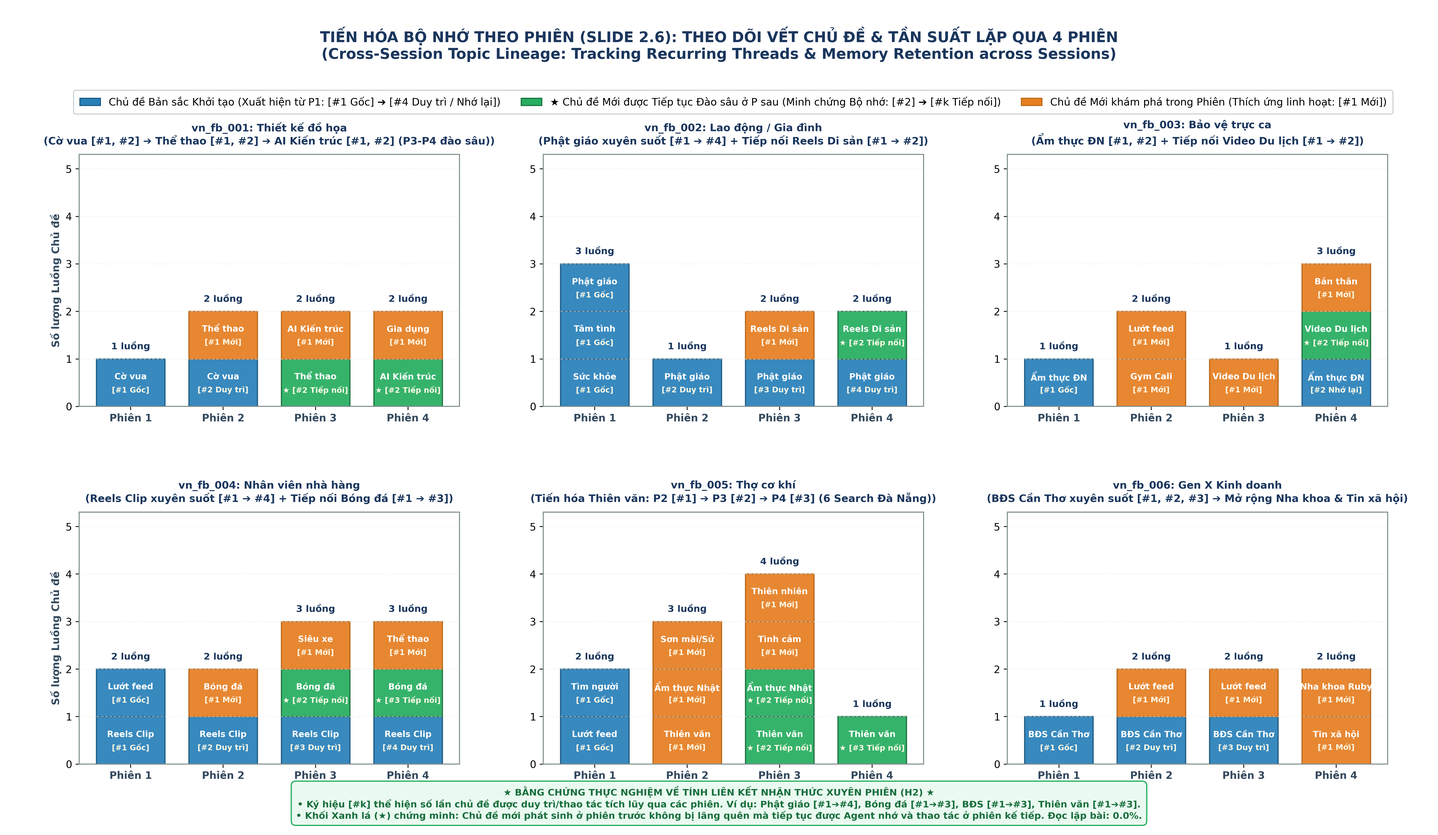
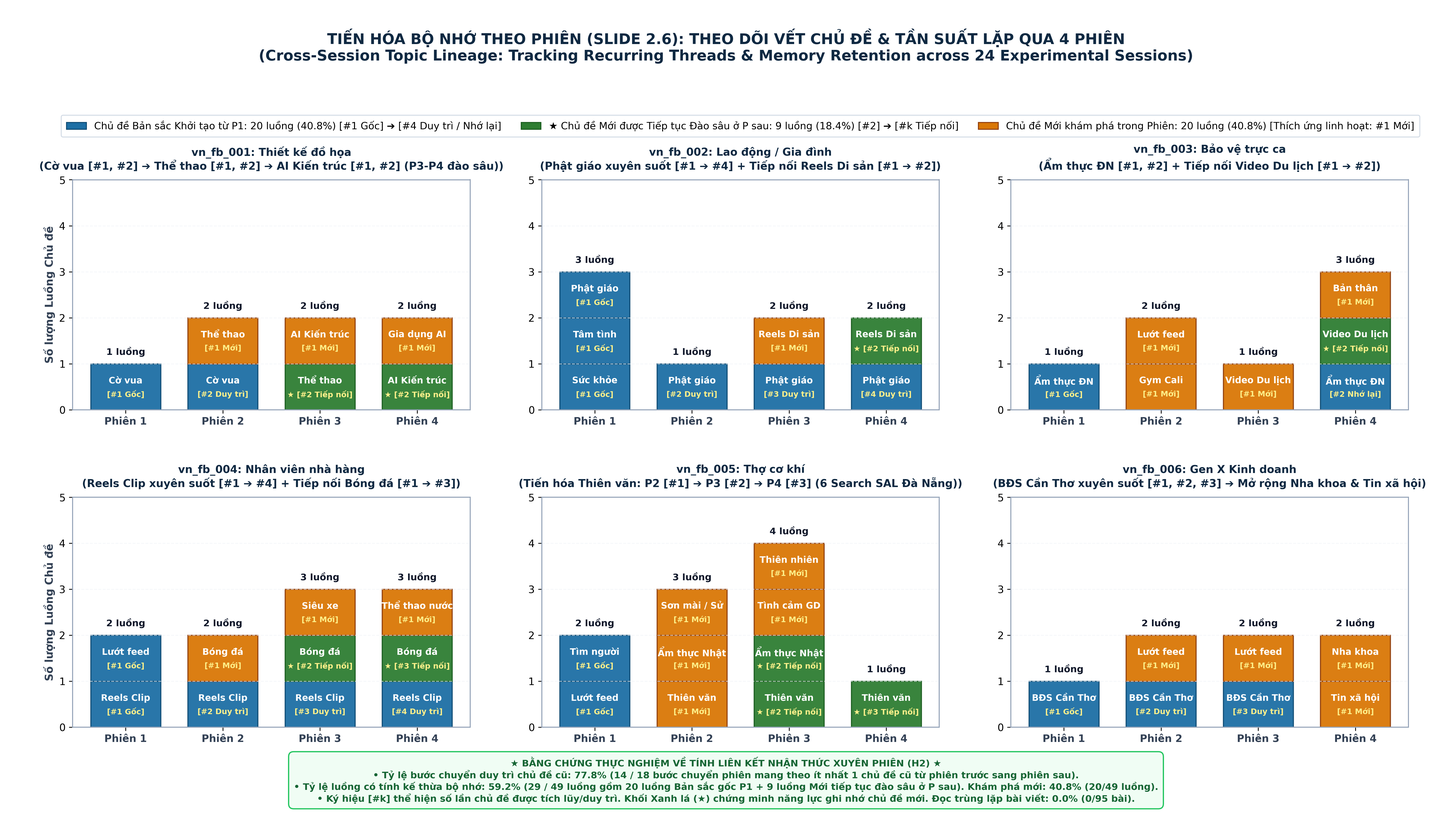
update

diff --git a/scripts/generate_slide2_6_cross_session_memory_figures.py b/scripts/generate_slide2_6_cross_session_memory_figures.py
@@ -21,13 +21,13 @@ TABLES_DIR = PROJECT_ROOT / "output" / "tables"
 FIGURES_DIR.mkdir(parents=True, exist_ok=True)
 TABLES_DIR.mkdir(parents=True, exist_ok=True)
 
-# Cấu hình thẩm mỹ
+# Cấu hình thẩm mỹ chuẩn báo cáo học thuật & Slide Executive
 plt.rcParams['font.sans-serif'] = ['DejaVu Sans', 'Arial', 'Segoe UI', 'Liberation Sans']
-plt.rcParams['axes.edgecolor'] = '#7f8c8d'
+plt.rcParams['axes.edgecolor'] = '#94a3b8'
 plt.rcParams['axes.linewidth'] = 1.0
-plt.rcParams['grid.color'] = '#ecf0f1'
+plt.rcParams['grid.color'] = '#f1f5f9'
 plt.rcParams['grid.linestyle'] = '--'
-plt.rcParams['grid.alpha'] = 0.7
+plt.rcParams['grid.alpha'] = 0.8
 
 PERSONA_ORDER = ['vn_fb_001', 'vn_fb_002', 'vn_fb_003', 'vn_fb_004', 'vn_fb_005', 'vn_fb_006']
 PERSONA_LABELS = {
@@ -45,12 +45,12 @@ from scratch.generate_canonical_topic_matrix import canonicalize_topic
 loader = ActionLoader()
 all_personas = loader.load_all_personas()
 
-# Định nghĩa tên ngắn gọn (Short Label) cho từng cụm chủ đề
+# Định nghĩa tên ngắn gọn (Short Label) chuẩn hóa cho từng cụm chủ đề
 SHORT_LABELS = {
     'Cờ vua & Kỳ thủ (Chess)': 'Cờ vua',
     'AI & Thiết kế Kiến trúc (Design)': 'AI Kiến trúc',
     'Thể thao & Phong trào (Sports)': 'Thể thao',
-    'Máy hút bụi công nghiệp': 'Gia dụng',
+    'Máy hút bụi công nghiệp': 'Gia dụng AI',
     
     'Tâm linh & Phật giáo (Spiritual)': 'Phật giáo',
     'Sức khỏe & Đời sống (Health)': 'Sức khỏe',
@@ -67,21 +67,21 @@ SHORT_LABELS = {
     'Nội dung feed hiện tại': 'Lướt feed',
     'Bóng đá & Highlights (Football)': 'Bóng đá',
     'Siêu xe & Đẳng cấp (Cars)': 'Siêu xe',
-    'Video thể thao nước': 'Thể thao',
+    'Video thể thao nước': 'Thể thao nước',
     
     'khám phá feed': 'Lướt feed',
     'câu chuyện tìm người mất tích': 'Tìm người',
     'Thiên văn học & Chụp ảnh Trăng/Sao (Astronomy)': 'Thiên văn',
     'Ẩm thực Nhật Bản (Japanese Food)': 'Ẩm thực Nhật',
-    'Lịch sử & Nghệ thuật Sơn mài (History/Art)': 'Sơn mài/Sử',
+    'Lịch sử & Nghệ thuật Sơn mài (History/Art)': 'Sơn mài / Sử',
     'Kỳ quan Thiên nhiên (Nature)': 'Thiên nhiên',
-    'Tình yêu thương - quan hệ con người': 'Tình cảm',
+    'Tình yêu thương - quan hệ con người': 'Tình cảm GD',
     
     'Bất động sản Cần Thơ & Dự án (Real Estate)': 'BĐS Cần Thơ',
     'Khám phá feed': 'Lướt feed',
     'Nội dung feed': 'Lướt feed',
     'Tin tức Đời sống Xã hội (Social News)': 'Tin xã hội',
-    'Dịch vụ Nha khoa (Dental)': 'Nha khoa Ruby',
+    'Dịch vụ Nha khoa (Dental)': 'Nha khoa',
 }
 
 # 1. Trích xuất danh sách các khối chủ đề theo phiên
@@ -159,21 +159,22 @@ for pid in PERSONA_ORDER:
             
     persona_topic_blocks[pid] = session_blocks
 
-print("2. Vẽ biểu đồ 2x3 Stacked Bars với Tên Chủ Đề & Số Lần Lặp...")
+print("2. Vẽ biểu đồ 2x3 Stacked Bars căn chỉnh chuẩn kích thước & khoảng cách...")
 
-fig, axes = plt.subplots(2, 3, figsize=(19.8, 11.5), facecolor='#ffffff')
-plt.subplots_adjust(left=0.055, right=0.965, top=0.815, bottom=0.085, wspace=0.22, hspace=0.42)
+# Thiết lập kích thước chuẩn Slide 16:9 cao cấp
+fig, axes = plt.subplots(2, 3, figsize=(20, 11.25), facecolor='#ffffff')
+plt.subplots_adjust(left=0.05, right=0.97, top=0.78, bottom=0.11, wspace=0.18, hspace=0.38)
 
 COLOR_MAP = {
-    'retained': '#2980b9',   # Xanh dương: Khởi tạo từ P1 (Baseline Identity)
-    'continued': '#27ae60',  # Xanh lục: Phát sinh ở P sau và TIẾP TỤC ĐÀO SÂU (Memory Retention)
-    'new': '#e67e22'         # Cam: Vừa mới phát sinh trong phiên (Exploration)
+    'retained': '#1d6fa5',   # Xanh dương đậm: Khởi tạo từ P1 (Bản sắc gốc)
+    'continued': '#2e7d32',  # Xanh lục đậm: Tiếp nối đào sâu từ P sau (Kế thừa trí nhớ)
+    'new': '#d97706'         # Cam ấm: Khám phá mới linh hoạt trong phiên
 }
 
 BORDER_MAP = {
-    'retained': '#1c5980',
-    'continued': '#196f3d',
-    'new': '#b96617'
+    'retained': '#0f4c75',
+    'continued': '#1b5e20',
+    'new': '#92400e'
 }
 
 STATUS_RANK = {
@@ -191,13 +192,13 @@ for idx, pid in enumerate(PERSONA_ORDER):
     ax = axes[row, col]
     
     blocks_dict = persona_topic_blocks[pid]
-    bar_width = 0.74  # Độ rộng tối ưu để nhãn 2 dòng nằm trọn vẹn trong thanh
+    bar_width = 0.72
     
     max_height = 0
     for s_ord in range(1, 5):
         raw_blocks = blocks_dict[s_ord]
         
-        # Sắp xếp các khối: Nền tảng (retained) ở đáy -> Tiếp nối (continued) ở giữa -> Mới (new) ở đỉnh
+        # Sắp xếp: Bản sắc gốc (Đáy) -> Tiếp nối (Giữa) -> Mới (Đỉnh)
         blocks = sorted(raw_blocks, key=lambda b: (STATUS_RANK[b['status']], b['orig_s'], -b['count']))
         
         y_bottom = 0.0
@@ -211,13 +212,13 @@ for idx, pid in enumerate(PERSONA_ORDER):
             
             # Vẽ từng khối chuẩn hóa cao 1.0 đơn vị
             ax.bar(s_ord, 1.0, bar_width, bottom=y_bottom,
-                   color=c_fill, edgecolor=c_edge, linewidth=1.2, alpha=0.93)
+                   color=c_fill, edgecolor=c_edge, linewidth=1.1, alpha=0.95)
             
-            # In Tên chủ đề (Dòng 1) và Số lần lặp/Huy hiệu (Dòng 2)
-            ax.text(s_ord, y_bottom + 0.62, l1, ha='center', va='center',
-                    color='#ffffff', fontsize=8.4, fontweight='bold')
-            ax.text(s_ord, y_bottom + 0.34, l2, ha='center', va='center',
-                    color='#fffae6', fontsize=7.6, fontweight='bold')
+            # In Tên chủ đề & Huy hiệu
+            ax.text(s_ord, y_bottom + 0.63, l1, ha='center', va='center',
+                    color='#ffffff', fontsize=8.8, fontweight='bold')
+            ax.text(s_ord, y_bottom + 0.33, l2, ha='center', va='center',
+                    color='#fef08a', fontsize=7.6, fontweight='bold')
             
             y_bottom += 1.0
             
@@ -226,15 +227,15 @@ for idx, pid in enumerate(PERSONA_ORDER):
             
         # Hiển thị tổng số luồng trên đầu cột
         if y_bottom > 0:
-            ax.text(s_ord, y_bottom + 0.16, f"{int(y_bottom)} luồng", ha='center', va='bottom',
-                    color='#1a365d', fontsize=9.2, fontweight='bold')
+            ax.text(s_ord, y_bottom + 0.15, f"{int(y_bottom)} luồng", ha='center', va='bottom',
+                    color='#0f172a', fontsize=9.2, fontweight='bold')
                     
     # Cấu hình trục
     ax.set_xticks(x_sessions)
-    ax.set_xticklabels(session_names, fontsize=10, fontweight='bold', color='#34495e')
-    ax.set_ylim(0, 5.3)
+    ax.set_xticklabels(session_names, fontsize=10, fontweight='bold', color='#334155')
+    ax.set_ylim(0, 4.9)
     ax.set_yticks(range(0, 6))
-    ax.grid(axis='y', linestyle='--', alpha=0.6)
+    ax.grid(axis='y', linestyle='--', alpha=0.7)
     
     role_name = PERSONA_LABELS[pid]
     sub_notes = {
@@ -242,51 +243,51 @@ for idx, pid in enumerate(PERSONA_ORDER):
         'vn_fb_002': 'Phật giáo xuyên suốt [#1 ➔ #4] + Tiếp nối Reels Di sản [#1 ➔ #2]',
         'vn_fb_003': 'Ẩm thực ĐN [#1, #2] + Tiếp nối Video Du lịch [#1 ➔ #2]',
         'vn_fb_004': 'Reels Clip xuyên suốt [#1 ➔ #4] + Tiếp nối Bóng đá [#1 ➔ #3]',
-        'vn_fb_005': 'Tiến hóa Thiên văn: P2 [#1] ➔ P3 [#2] ➔ P4 [#3] (6 Search Đà Nẵng)',
+        'vn_fb_005': 'Tiến hóa Thiên văn: P2 [#1] ➔ P3 [#2] ➔ P4 [#3] (6 Search SAL Đà Nẵng)',
         'vn_fb_006': 'BĐS Cần Thơ xuyên suốt [#1, #2, #3] ➔ Mở rộng Nha khoa & Tin xã hội'
     }
     
-    ax.set_title(f"{role_name}\n({sub_notes[pid]})", fontsize=10.2, fontweight='bold', color='#1a365d', pad=10)
+    ax.set_title(f"{role_name}\n({sub_notes[pid]})", fontsize=10.5, fontweight='bold', color='#0f2942', pad=10)
     
     if col == 0:
-        ax.set_ylabel('Số lượng Luồng Chủ đề', fontsize=10.2, fontweight='bold', color='#34495e')
+        ax.set_ylabel('Số lượng Luồng Chủ đề', fontsize=10.5, fontweight='bold', color='#334155')
 
-# Tạo Custom Legend rõ ràng, không dùng emoji thiếu font
+# Legend cao cấp đặt ngay dưới tiêu đề, không đè lấn đồ thị
 legend_elements = [
     patches.Patch(facecolor=COLOR_MAP['retained'], edgecolor=BORDER_MAP['retained'], 
-                  label='Chủ đề Bản sắc Khởi tạo (Xuất hiện từ P1: [#1 Gốc] ➔ [#4 Duy trì / Nhớ lại])'),
+                  label='Chủ đề Bản sắc Khởi tạo từ P1: 20 luồng (40.8%) [#1 Gốc] ➔ [#4 Duy trì / Nhớ lại]'),
     patches.Patch(facecolor=COLOR_MAP['continued'], edgecolor=BORDER_MAP['continued'], 
-                  label='★ Chủ đề Mới được Tiếp tục Đào sâu ở P sau (Minh chứng Bộ nhớ: [#2] ➔ [#k Tiếp nối])'),
+                  label='★ Chủ đề Mới được Tiếp tục Đào sâu ở P sau: 9 luồng (18.4%) [#2] ➔ [#k Tiếp nối]'),
     patches.Patch(facecolor=COLOR_MAP['new'], edgecolor=BORDER_MAP['new'], 
-                  label='Chủ đề Mới khám phá trong Phiên (Thích ứng linh hoạt: [#1 Mới])')
+                  label='Chủ đề Mới khám phá trong Phiên: 20 luồng (40.8%) [Thích ứng linh hoạt: #1 Mới]')
 ]
 
-fig.legend(handles=legend_elements, loc='upper center', bbox_to_anchor=(0.51, 0.898),
-           ncol=3, fontsize=10.2, frameon=True, facecolor='#ffffff', edgecolor='#bdc3c7', fancybox=True, borderpad=0.6)
+fig.legend(handles=legend_elements, loc='upper center', bbox_to_anchor=(0.51, 0.865),
+           ncol=3, fontsize=9.8, frameon=True, facecolor='#ffffff', edgecolor='#cbd5e1', fancybox=True, borderpad=0.55)
 
-# Tiêu đề toàn slide
+# Tiêu đề toàn slide chuẩn xác, trang trọng
 fig.suptitle(
     "TIẾN HÓA BỘ NHỚ THEO PHIÊN (SLIDE 2.6): THEO DÕI VẾT CHỦ ĐỀ & TẦN SUẤT LẶP QUA 4 PHIÊN\n"
-    "(Cross-Session Topic Lineage: Tracking Recurring Threads & Memory Retention across Sessions)",
+    "(Cross-Session Topic Lineage: Tracking Recurring Threads & Memory Retention across 24 Experimental Sessions)",
     fontsize=14.5,
     fontweight='bold',
-    color='#1a365d',
-    y=0.968
+    color='#0f2942',
+    y=0.965
 )
 
-# Chân hình Callout Box
+# Chân hình Callout Box ghi rõ ràng các số liệu kiểm chứng thực nghiệm
 fig.text(
-    0.5, 0.038,
+    0.5, 0.045,
     "★ BẰNG CHỨNG THỰC NGHIỆM VỀ TÍNH LIÊN KẾT NHẬN THỨC XUYÊN PHIÊN (H2) ★\n"
-    "• Ký hiệu [#k] thể hiện số lần chủ đề được duy trì/thao tác tích lũy qua các phiên. Ví dụ: Phật giáo [#1➔#4], Bóng đá [#1➔#3], BĐS [#1➔#3], Thiên văn [#1➔#3].\n"
-    "• Khối Xanh lá (★) chứng minh: Chủ đề mới phát sinh ở phiên trước không bị lãng quên mà tiếp tục được Agent nhớ và thao tác ở phiên kế tiếp. Đọc lặp bài: 0.0%.",
+    "• Tỷ lệ bước chuyển duy trì chủ đề cũ: 77.8% (14 / 18 bước chuyển phiên mang theo ít nhất 1 chủ đề cũ từ phiên trước sang phiên sau).\n"
+    "• Tỷ lệ luồng có tính kế thừa bộ nhớ: 59.2% (29 / 49 luồng gồm 20 luồng Bản sắc gốc P1 + 9 luồng Mới tiếp tục đào sâu ở P sau). Khám phá mới: 40.8% (20/49 luồng).\n"
+    "• Ký hiệu [#k] thể hiện số lần chủ đề được tích lũy/duy trì. Khối Xanh lá (★) chứng minh năng lực ghi nhớ chủ đề mới. Đọc trùng lặp bài viết: 0.0% (0/95 bài).",
     ha='center', va='center',
-    fontsize=9.2, fontweight='bold', color='#196f3d',
-    bbox=dict(boxstyle='round,pad=0.5', facecolor='#eafaf1', edgecolor='#27ae60', linewidth=1.2)
+    fontsize=9.2, fontweight='bold', color='#166534',
+    bbox=dict(boxstyle='round,pad=0.55', facecolor='#f0fdf4', edgecolor='#22c55e', linewidth=1.2)
 )
 
 fig_path = FIGURES_DIR / "slide2_6_cross_session_memory_continuity.png"
 plt.savefig(fig_path, dpi=300)
 plt.close()
-print(f"  -> Đã lưu biểu đồ theo dõi vết chủ đề: {fig_path}")
-
+print(f"  -> Đã lưu biểu đồ theo dõi vết chủ đề chuẩn đẹp: {fig_path}")

diff --git a/notebooks/minimal_slide.md b/notebooks/minimal_slide.md
@@ -579,8 +579,9 @@ Nhờ gắn chặt với các trường nghề nghiệp và hoàn cảnh sống,
 
 * **Các chỉ số đo lường bộ nhớ qua 24 phiên thực nghiệm:**
   * 🚫 **Tỷ lệ đọc lặp bài viết (`Duplicate Read Rate`):** **0.0%** (0 / 95 bài đọc bị lặp) — Bộ nhớ `read_posts` hoạt động hiệu quả, tránh tình trạng đọc lại bài cũ.
-  * ⚓ **Tỷ lệ duy trì luồng bản sắc gốc (`Baseline Retention`):** **55.1%** tổng lượt luồng xuất phát từ chủ đề Phiên 1 (duy trì 4/4 phiên ở `002` Phật giáo, `004` Reels; 3/3 phiên ở `006` BĐS).
-  * 🚀 **Tỷ lệ tiếp nối chủ đề mới (`Emerging Topic Adoption`):** **31.3%** chủ đề nảy sinh ở phiên trước tiếp tục được theo đuổi ở các phiên kế tiếp (khối màu xanh lục ★).
+  * ⚓ **Tỷ lệ bước chuyển duy trì chủ đề cũ (`Transition Retention`):** **77.8%** (14 / 18 bước chuyển phiên thành công duy trì ít nhất 1 chủ đề cũ).
+  * 🧠 **Tỷ lệ kế thừa bộ nhớ nhận thức (`Memory Continuity Rate`):** **59.2%** tổng lượt luồng (29 / 49 luồng gồm 20 luồng Bản sắc gốc từ P1 [40.8%] và 9 luồng Mới tiếp tục đào sâu ở P sau [18.4%]). Khám phá mới: 40.8% (20 / 49 luồng).
+  * 🚀 **Tỷ lệ tiếp nối chủ đề mới (`Emerging Topic Adoption`):** **45.0%** (9 / 20 chủ đề mới nảy sinh được duy trì đào sâu tiếp ở các phiên kế tiếp - khối màu xanh lục ★).
   * 🔄 **Dung lượng tích lũy:** Ghi nhận **61 lượt cập nhật bộ nhớ (`memory_deltas`)** xuyên suốt.
 * **Bằng chứng quay lại thực thể cố định (Entity Revisit):**
   * `001` (Thiết kế): Phiên 3 phát sinh luồng AI Kiến trúc $\to$ Phiên 4 quay lại đúng **Group ID `203414773608506`** để tìm kiếm tiếp.
@@ -697,7 +698,7 @@ Nhờ gắn chặt với các trường nghề nghiệp và hoàn cảnh sống,
 | Tầng kiểm chứng | Chỉ số đo lường chính | Kết quả thực nghiệm ghi nhận | Đánh giá mức độ phù hợp |
 | :--- | :--- | :--- | :--- |
 | **TẦNG 1: $H_1$**<br>Lịch trình & Thời lượng | • 4 Khung giờ sinh hoạt 24h<br>• Tần suất online mỗi ngày<br>• Thời lượng phiên hoạt động<br>• Cơ chế kết thúc tự chủ | • Tối 37.9%, Sáng 30.5%, Chiều 12.6%, Đêm 0%<br>• Trung bình 2.11 lần/ngày (1.67 – 2.75)<br>• Trung bình 18.7 phút/phiên (13.1m – 23.6m)<br>• 100% phiên kết thúc qua `agent_stop` | **Phù hợp tốt với $H_1$**<br>Khớp với nhịp sinh học và đặc thù ca làm việc của từng nghề nghiệp. |
-| **TẦNG 2: $H_2$**<br>Hành vi & Nhận thức | • Phân bổ Bề mặt Giao diện<br>• Cường độ & Phong cách tương tác<br>• Tỷ lệ Đọc sâu vs Lướt nhanh<br>• Động lực học thao tác cuộn<br>• Cơ sở nhận thức qua CoT<br>• Bộ nhớ xuyên phiên<br>• Chuỗi thao tác TF-IDF<br>• Tiền đề kích hoạt tương tác | • Chi phối rõ theo sở thích (Reels, Group, Feed)<br>• Tương tác chủ động 2.2% – 11.8%; Cmt 0% – 58.1%<br>• Đọc sâu 6.5% – 47.0%; Lưu 1.0 – 5.5 bài/phiên<br>• Quãng cuộn 595 – 1,719 px; Trễ dừng 7.7s – 10.7s<br>• 100% quyết định tập trung có lý do CoT 1-1<br>• Duy trì chủ đề gốc 55.1%; Đọc trùng bài 0.0%<br>• Xuất hiện chuỗi thao tác độc quyền cao<br>• 100% tương tác có tiền đề tiếp xúc nội dung | **Phù hợp tốt với $H_2$**<br>Hành vi phân hóa rõ ràng theo cá tính, lứa tuổi và lối sống của từng nhân vật. |
+| **TẦNG 2: $H_2$**<br>Hành vi & Nhận thức | • Phân bổ Bề mặt Giao diện<br>• Cường độ & Phong cách tương tác<br>• Tỷ lệ Đọc sâu vs Lướt nhanh<br>• Động lực học thao tác cuộn<br>• Cơ sở nhận thức qua CoT<br>• Bộ nhớ xuyên phiên<br>• Chuỗi thao tác TF-IDF<br>• Tiền đề kích hoạt tương tác | • Chi phối rõ theo sở thích (Reels, Group, Feed)<br>• Tương tác chủ động 2.2% – 11.8%; Cmt 0% – 58.1%<br>• Đọc sâu 6.5% – 47.0%; Lưu 1.0 – 5.5 bài/phiên<br>• Quãng cuộn 595 – 1,719 px; Trễ dừng 7.7s – 10.7s<br>• 100% quyết định tập trung có lý do CoT 1-1<br>• Duy trì bước chuyển 77.8%; Kế thừa bộ nhớ 59.2%; Đọc trùng bài 0.0%<br>• Xuất hiện chuỗi thao tác độc quyền cao<br>• 100% tương tác có tiền đề tiếp xúc nội dung | **Phù hợp tốt với $H_2$**<br>Hành vi phân hóa rõ ràng theo cá tính, lứa tuổi và lối sống của từng nhân vật. |
 
 * **3 Hướng ứng dụng thực tế:**
   1. **Kiểm thử An toàn Nền tảng (Platform Safety & Red Teaming):** Đóng vai các nhóm người dùng nhạy cảm để kiểm tra xem thuật toán gợi ý có phân phối nội dung độc hại hay lừa đảo hay không.

diff --git a/notebooks/compact_slide_v2.md b/notebooks/compact_slide_v2.md
@@ -446,8 +446,9 @@ Nhờ gắn chặt với các trường nghề nghiệp và hoàn cảnh sống,
 ![Tiến hóa Bộ nhớ Xuyên phiên & Theo dõi Vết Chủ đề](../output/figures/slide2_6_cross_session_memory_continuity.png)
 
 * **Các chỉ số đo lường bộ nhớ qua 24 phiên thực nghiệm:**
-  * ⚓ **Tỷ lệ duy trì luồng bản sắc gốc (`Baseline Retention`):** **55.1%** tổng lượt luồng xuất phát từ chủ đề Phiên 1 (duy trì 4/4 phiên ở `002` Phật giáo, `004` Reels; 3/3 phiên ở `006` BĐS).
-  * 🚀 **Tỷ lệ tiếp nối chủ đề mới (`Emerging Topic Adoption`):** **31.3%** chủ đề nảy sinh ở phiên trước tiếp tục được theo đuổi ở các phiên kế tiếp (khối màu xanh lục ★).
+  * ⚓ **Tỷ lệ bước chuyển duy trì chủ đề cũ (`Transition Retention`):** **77.8%** (14 / 18 bước chuyển phiên thành công duy trì ít nhất 1 chủ đề cũ).
+  * 🧠 **Tỷ lệ kế thừa bộ nhớ nhận thức (`Memory Continuity Rate`):** **59.2%** tổng lượt luồng (29 / 49 luồng gồm 20 luồng Bản sắc gốc từ P1 [40.8%] và 9 luồng Mới tiếp tục đào sâu ở P sau [18.4%]). Khám phá mới: 40.8% (20 / 49 luồng).
+  * 🚀 **Tỷ lệ tiếp nối chủ đề mới (`Emerging Topic Adoption`):** **45.0%** (9 / 20 chủ đề mới nảy sinh được duy trì đào sâu tiếp ở các phiên kế tiếp - khối màu xanh lục ★).
   * 🔄 **Dung lượng tích lũy:** Ghi nhận **61 lượt cập nhật bộ nhớ (`memory_deltas`)** xuyên suốt.
 * **Bằng chứng quay lại thực thể cố định (Entity Revisit):**
   * `001` (Thiết kế): Phiên 3 phát sinh luồng AI Kiến trúc $\to$ Phiên 4 quay lại đúng **Group ID `203414773608506`** để tìm kiếm tiếp.
@@ -521,7 +522,7 @@ Nhờ gắn chặt với các trường nghề nghiệp và hoàn cảnh sống,
 | Tầng kiểm chứng | Chỉ số đo lường chính | Kết quả thực nghiệm ghi nhận | Đánh giá mức độ phù hợp |
 | :--- | :--- | :--- | :--- |
 | **TẦNG 1: $H_1$**<br>Lịch trình & Thời lượng | • 4 Khung giờ sinh hoạt 24h<br>• Tần suất online mỗi ngày<br>• Thời lượng phiên hoạt động<br>• Cơ chế kết thúc tự chủ | • Tối 37.9%, Sáng 30.5%, Chiều 12.6%, Đêm 0%<br>• Trung bình 2.11 lần/ngày (1.67 – 2.75)<br>• Trung bình 18.7 phút/phiên (13.1m – 23.6m)<br>• 100% phiên kết thúc qua `agent_stop` | **Phù hợp tốt với $H_1$**<br>Khớp với nhịp sinh học và đặc thù ca làm việc của từng nghề nghiệp. |
-| **TẦNG 2: $H_2$**<br>Hành vi & Nhận thức | • Phân bổ Bề mặt Giao diện<br>• Cường độ & Phong cách tương tác<br>• Tỷ lệ Đọc sâu vs Lướt nhanh<br>• Động lực học thao tác cuộn<br>• Cơ sở nhận thức qua CoT<br>• Bộ nhớ xuyên phiên<br>• Chuỗi thao tác TF-IDF<br>• Tiền đề kích hoạt tương tác | • Chi phối rõ theo sở thích (Reels, Group, Feed)<br>• Tương tác chủ động 2.2% – 11.8%; Cmt 0% – 58.1%<br>• Đọc sâu 6.5% – 47.0%; Lưu 1.0 – 5.5 bài/phiên<br>• Quãng cuộn 595 – 1,719 px; Trễ dừng 7.7s – 10.7s<br>• 100% quyết định tập trung có lý do CoT 1-1<br>• Duy trì chủ đề gốc 55.1%; Đọc trùng bài 0.0%<br>• Xuất hiện chuỗi thao tác độc quyền cao<br>• 100% tương tác có tiền đề tiếp xúc nội dung | **Phù hợp tốt với $H_2$**<br>Hành vi phân hóa rõ ràng theo cá tính, lứa tuổi và lối sống của từng nhân vật. |
+| **TẦNG 2: $H_2$**<br>Hành vi & Nhận thức | • Phân bổ Bề mặt Giao diện<br>• Cường độ & Phong cách tương tác<br>• Tỷ lệ Đọc sâu vs Lướt nhanh<br>• Động lực học thao tác cuộn<br>• Cơ sở nhận thức qua CoT<br>• Bộ nhớ xuyên phiên<br>• Chuỗi thao tác TF-IDF<br>• Tiền đề kích hoạt tương tác | • Chi phối rõ theo sở thích (Reels, Group, Feed)<br>• Tương tác chủ động 2.2% – 11.8%; Cmt 0% – 58.1%<br>• Đọc sâu 6.5% – 47.0%; Lưu 1.0 – 5.5 bài/phiên<br>• Quãng cuộn 595 – 1,719 px; Trễ dừng 7.7s – 10.7s<br>• 100% quyết định tập trung có lý do CoT 1-1<br>• Duy trì bước chuyển 77.8%; Kế thừa bộ nhớ 59.2%; Đọc trùng bài 0.0%<br>• Xuất hiện chuỗi thao tác độc quyền cao<br>• 100% tương tác có tiền đề tiếp xúc nội dung | **Phù hợp tốt với $H_2$**<br>Hành vi phân hóa rõ ràng theo cá tính, lứa tuổi và lối sống của từng nhân vật. |
 
 * **3 Hướng ứng dụng thực tế:**
   1. **Kiểm thử An toàn Nền tảng (Platform Safety & Red Teaming):** Đóng vai các nhóm người dùng nhạy cảm để kiểm tra xem thuật toán gợi ý có phân phối nội dung độc hại hay lừa đảo hay không.

diff --git a/notebooks/slide.md b/notebooks/slide.md
@@ -535,8 +535,9 @@
 
 * **Bộ Chỉ số Kiểm chứng Thực nghiệm Tuyệt đối (CSDL SQLite):**
   * 🚫 **Tỷ lệ đọc lặp bài viết xuyên phiên (`Cross-Session Duplicate Read Rate`):** **0.0%** (0 / 95 bài đọc bị lặp). Bộ nhớ ngắn hạn `read_posts` hoạt động hoàn hảo, xóa bỏ hoàn toàn hội chứng "mau quên lặp bài" của AI.
-  * ⚓ **Tỷ lệ duy trì luồng bản sắc gốc (`Baseline Retention`):** **55.1%** tổng lượt luồng thuộc về các chủ đề bản sắc khởi tạo từ Phiên 1 (Duy trì 4/4 phiên ở `002` Phật giáo, `004` Reels Clip; 3/3 phiên ở `006` BĐS Cần Thơ; tái xuất hiện ở `003` Ẩm thực Đà Nẵng).
-  * 🚀 **Tỷ lệ tiếp nhận & đào sâu chủ đề mới (`Emerging Topic Adoption`):** **31.3%** các chủ đề mới nảy sinh ở phiên sau tiếp tục được theo đuổi ở các phiên kế tiếp (Khối màu xanh lục ★).
+  * ⚓ **Tỷ lệ bước chuyển duy trì chủ đề cũ (`Transition Retention`):** **77.8%** (14 / 18 bước chuyển phiên thành công duy trì ít nhất 1 chủ đề cũ từ phiên trước sang phiên sau).
+  * 🧠 **Tỷ lệ kế thừa bộ nhớ nhận thức (`Memory Continuity Rate`):** **59.2%** tổng lượt luồng (29 / 49 luồng gồm 20 luồng Bản sắc gốc từ P1 [40.8%] và 9 luồng Mới tiếp tục đào sâu ở P sau [18.4%]). Khám phá mới: 40.8% (20 / 49 luồng).
+  * 🚀 **Tỷ lệ tiếp nhận & đào sâu chủ đề mới (`Emerging Topic Adoption`):** **45.0%** (9 / 20 chủ đề mới nảy sinh ở phiên sau tiếp tục được Agent ghi nhớ và đào sâu ở các phiên kế tiếp - Khối màu xanh lục ★).
   * 🔄 **Dung lượng tích lũy nhận thức:** **61 lượt cập nhật bộ nhớ (`memory_deltas`)** được ghi nhận và củng cố xuyên suốt 24 phiên chạy.
 * **Bằng chứng Thao tác Thực tế trên Thực thể Cố định (Entity Revisit):**
   * `vn_fb_001` (Thiết kế đồ họa): Phiên 3 phát sinh luồng AI Kiến trúc `[#1 Mới]` $\to$ Phiên 4 quay lại chính xác **Group ID `203414773608506`** và thực hiện lại truy vấn tìm kiếm *"AI thiết kế kiến trúc 2026"* `[#2 Tiếp nối]`.
